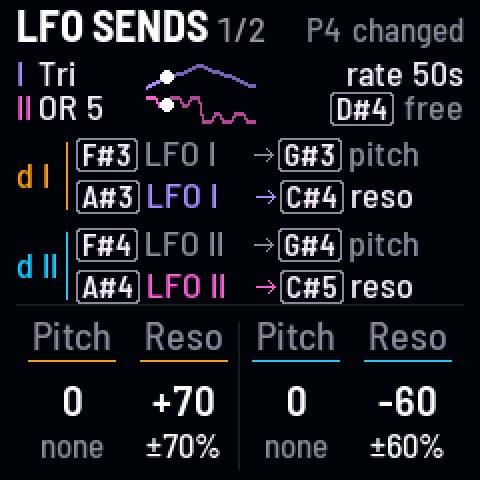
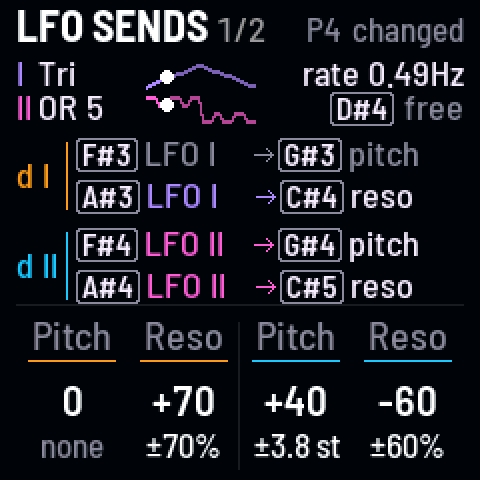
The stepped figure's clip opens on the figure; Wander moves it from 0:02, every 2.4-6 s

diff --git a/docs/manual/recipes/sounds.md b/docs/manual/recipes/sounds.md
@@ -189,16 +189,13 @@ four notes, a figure that repeats. Wander then moves the whole figure to a new n
 > **Good to know.** LFO I's OR ([[OCT−]]) is three times as fast: another figure. **AND** (AND 3 on LFO I, AND 5 on
 > LFO II) steps between two notes instead, as in **Piston** (P11). **Telegraph** (P13) is built this way, on LFO I's OR 3.
 
-![LFO sends, LFO II on OR 5](../media/figure-0.png "OR 5 on LFO II")
-![LFO sends, drone II's pitch send +40, 0.49 Hz](../media/figure-1.png "pitch send +40, 0.49 Hz")
+![LFO sends, LFO II on OR 5, drone II's pitch send +40](../media/figure-0.png "OR 5 on drone II's pitch")
+![Pitch moves, Wander 2.4-6 s](../media/figure-1.png "Wander moving the figure")
 
 **Listen** (`figure`)
 
-- 0:00 P4 Dreamhouse as it starts: a low A and its seventh harmonic
-- 0:01 drone II brighter and forward: its wave to a saw, its filter opened
-- 0:06 drone II's pitch send up: the high voice steps round a figure of four notes
-- 0:13 the LFO's rate up: the figure quickens
-- 0:21 Wander up: every so often the whole figure moves to a new note
+- 0:00 the figure stepping: drone II bright, round four notes on LFO II's OR 5
+- 0:02 Wander up: every few seconds the whole figure moves to a new note
 
 ### A filter rhythm in time with the Swell {#swell}
 
